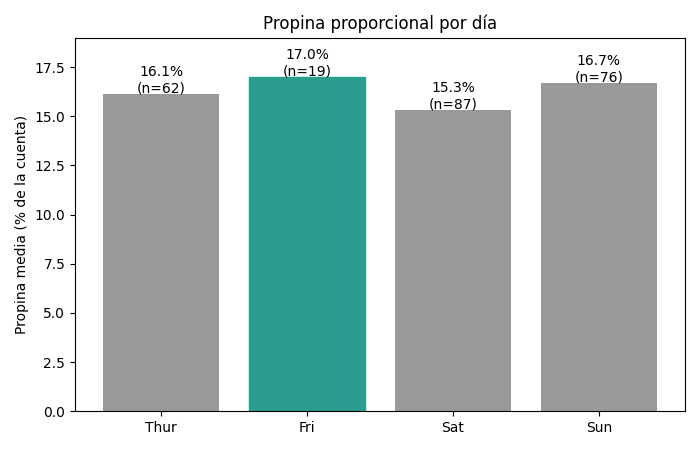
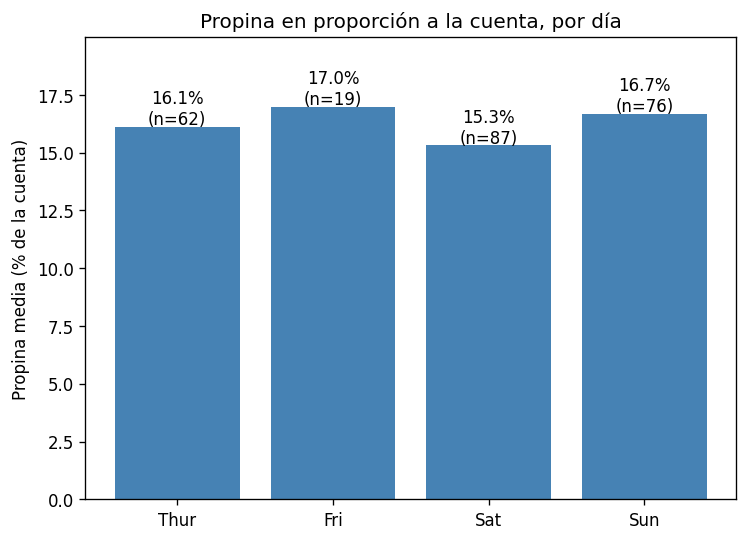
Endurece el sandbox y añade pruebas de seguridad

diff --git a/agent.py b/agent.py
@@ -11,13 +11,14 @@ load_dotenv()
 client = anthropic.Anthropic()
 
 MODEL = "claude-sonnet-5-5"
-WORKSPACE = Path("workspace")
+DATA_DIR = Path("workspace/data")
+OUTPUT_DIR = Path("workspace/output")
 
-SYSTEM = """Eres un analista de datos. Tienes un dataset en /workspace/{file}.
+SYSTEM = """Eres un analista de datos. Tienes un dataset en /data/{file} (solo lectura).
 Para analizarlo, escribe código Python y ejecútalo con la herramienta run_python.
-Tienes pandas y matplotlib. Guarda los gráficos como PNG en /workspace.
-Si el código falla, lee el error y corrígelo.
+Tienes pandas y matplotlib. Guarda los gráficos como PNG en /output.
 Cada ejecución empieza desde cero: carga los datos e importa las librerías en cada bloque.
+Si el código falla, lee el error y corrígelo.
 Cuando tengas la respuesta, explica las conclusiones en español, de forma breve."""
 
 TOOLS = [{
@@ -32,9 +33,10 @@ TOOLS = [{
 
 
 def ask(dataset, question, max_steps=10):
-    WORKSPACE.mkdir(exist_ok=True)
+    DATA_DIR.mkdir(parents=True, exist_ok=True)
+    OUTPUT_DIR.mkdir(parents=True, exist_ok=True)
     filename = Path(dataset).name
-    shutil.copy(dataset, WORKSPACE / filename)
+    shutil.copy(dataset, DATA_DIR / filename)
 
     messages = [{"role": "user", "content": question}]
 
@@ -56,7 +58,7 @@ def ask(dataset, question, max_steps=10):
             if block.type == "tool_use":
                 code = block.input["code"]
                 print(f"\n--- Ejecutando ---\n{code}\n")
-                output = run_code(code, WORKSPACE)
+                output = run_code(code, DATA_DIR, OUTPUT_DIR)
                 print(output[:1000])
                 results.append({
                     "type": "tool_result",

diff --git a/sandbox.py b/sandbox.py
@@ -6,18 +6,24 @@ IMAGE = "agent-sandbox"
 client = docker.from_env()
 
 
-def run_code(code, workspace, timeout=60):
-    workspace = Path(workspace).resolve()
-    (workspace / "script.py").write_text(code, encoding="utf-8")
-
+def run_code(code, data_dir, output_dir, timeout=60):
     container = client.containers.run(
         IMAGE,
-        "python script.py",
-        volumes={str(workspace): {"bind": "/workspace", "mode": "rw"}},
-        working_dir="/workspace",
+        ["python", "-c", code],
+        volumes={
+            str(Path(data_dir).resolve()): {"bind": "/data", "mode": "ro"},
+            str(Path(output_dir).resolve()): {"bind": "/output", "mode": "rw"},
+        },
+        working_dir="/output",
+        user="sandbox",
         network_disabled=True,
+        read_only=True,
+        tmpfs={"/tmp": "size=64m"},
         mem_limit="512m",
         nano_cpus=1_000_000_000,
+        pids_limit=64,
+        cap_drop=["ALL"],
+        security_opt=["no-new-privileges"],
         detach=True,
     )
 

diff --git a/test_sandbox.py b/test_sandbox.py
@@ -1,0 +1,19 @@
+from pathlib import Path
+
+from sandbox import run_code
+
+data = Path("workspace/data")
+output = Path("workspace/output")
+data.mkdir(parents=True, exist_ok=True)
+output.mkdir(parents=True, exist_ok=True)
+
+attacks = {
+    "Acceso a internet": "import urllib.request; urllib.request.urlopen('https://google.com', timeout=5)",
+    "Modificar los datos": "open('/data/hack.txt', 'w').write('x')",
+    "Escribir en el sistema": "open('/etc/hack.txt', 'w').write('x')",
+    "Usuario (0 = root)": "import os; print(os.getuid())",
+}
+
+for name, code in attacks.items():
+    print(f"--- {name} ---")
+    print(run_code(code, data, output)[-200:])

diff --git a/README.md b/README.md
@@ -12,12 +12,28 @@ Agente que responde preguntas sobre un dataset escribiendo y ejecutando su propi
 
 ## Sandbox
 
-Cada ejecución corre en un contenedor nuevo con:
+El código lo genera un LLM, así que se trata como no confiable. Cada ejecución corre en un contenedor nuevo que se destruye al terminar:
 
-- Sin acceso a red
-- Límite de 512 MB de memoria y 1 CPU
-- Timeout de 60 segundos
-- Solo acceso a la carpeta de trabajo
+| Riesgo | Protección |
+|---|---|
+| Exfiltrar datos o descargar malware | Sin acceso a red |
+| Modificar el dataset original | `/data` montado en solo lectura |
+| Escribir en el sistema | Sistema de archivos de solo lectura; solo `/output` y `/tmp` son escribibles |
+| Escalada de privilegios | Usuario sin privilegios (uid 1000), `cap_drop=ALL`, `no-new-privileges` |
+| Agotar recursos (bucles, fork bombs) | 512 MB de RAM, 1 CPU, máximo 64 procesos, timeout de 60 s |
+
+`test_sandbox.py` intenta cada uno de estos ataques y comprueba que fallan:
+
+```
+--- Acceso a internet ---
+urllib.error.URLError: <urlopen error [Errno -3] Temporary failure in name resolution>
+--- Modificar los datos ---
+OSError: [Errno 30] Read-only file system: '/data/hack.txt'
+--- Escribir en el sistema ---
+OSError: [Errno 30] Read-only file system: '/etc/hack.txt'
+--- Usuario (0 = root) ---
+1000
+```
 
 ## Ejemplo
 
@@ -25,7 +41,7 @@ Cada ejecución corre en un contenedor nuevo con:
 python agent.py data/tips.csv "¿Qué día se dejan más propinas en proporción a la cuenta? Haz un gráfico."
 ```
 
-En el primer intento el código falla por una variable no definida; el agente lee el error y lo corrige en el siguiente paso.
+El agente explora primero las columnas, calcula la propina en porcentaje por día y genera el gráfico. Además avisa de que el viernes tiene pocas muestras y de que no ha hecho contraste estadístico.
 
 ![Propina por día](docs/ejemplo.png)
 
@@ -52,5 +68,6 @@ ANTHROPIC_API_KEY=tu_api_key
 
 - `agent.py`: bucle del agente y uso de herramientas
 - `sandbox.py`: ejecución aislada en Docker
+- `test_sandbox.py`: pruebas de seguridad del sandbox
 - `Dockerfile`: imagen del sandbox
-- `data/`: datasets de ejemplo
+- `data/`: datasets de
